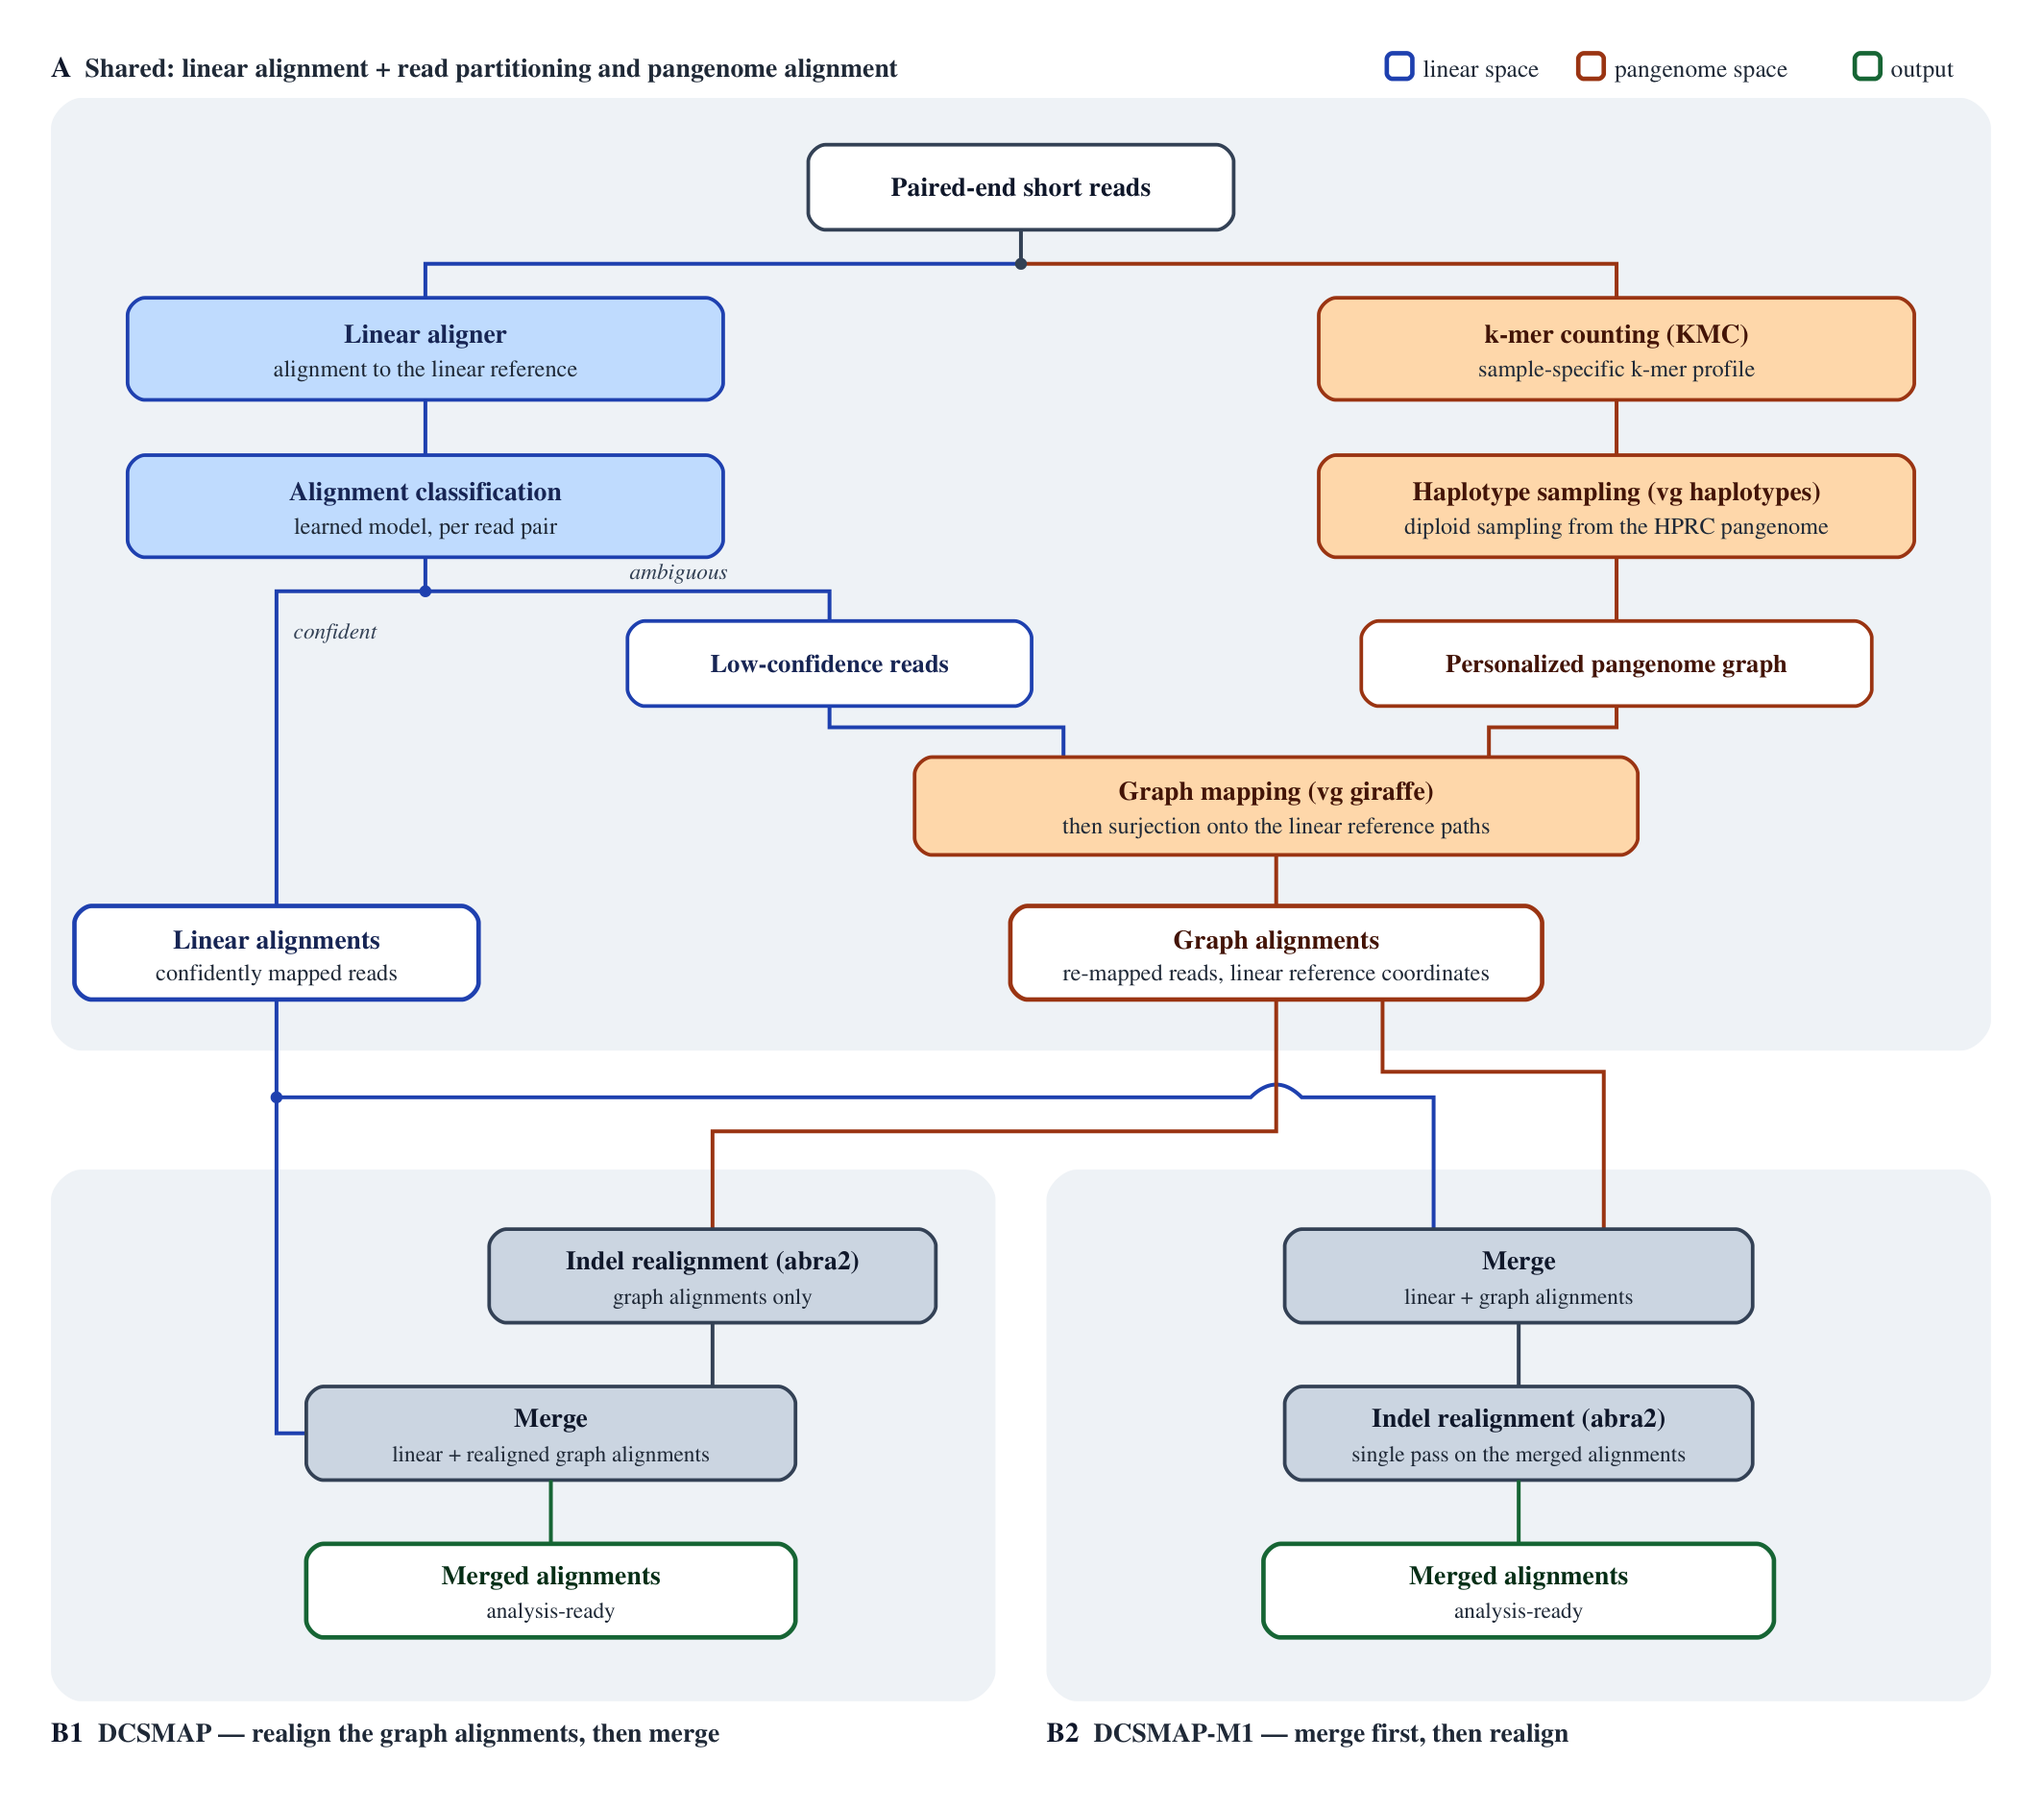
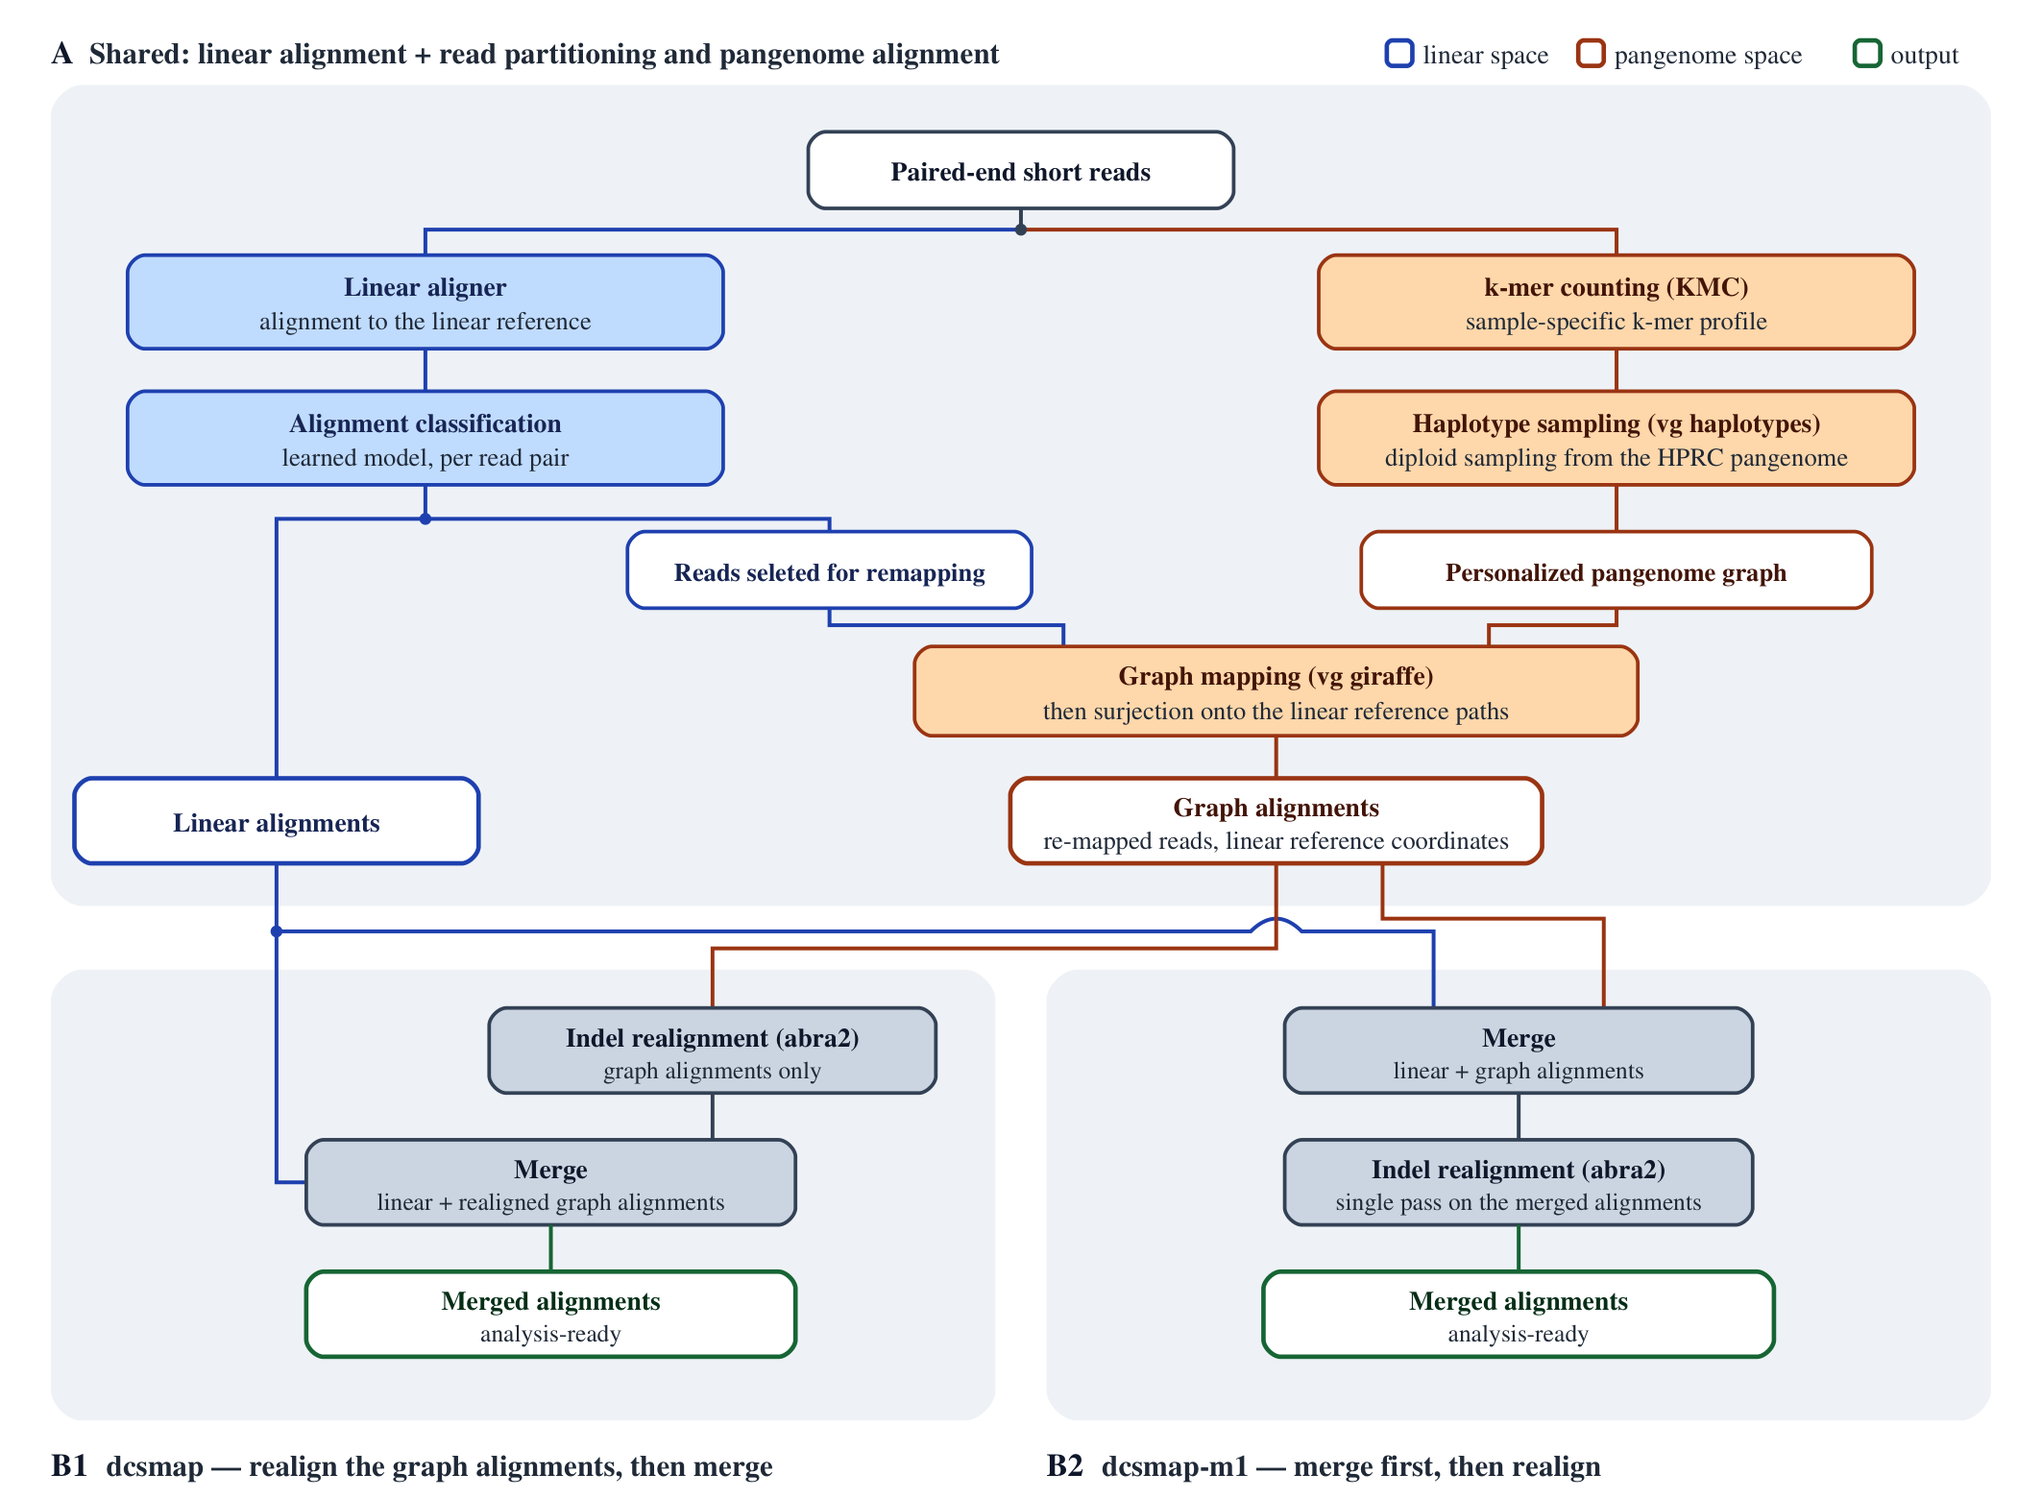
update

diff --git a/src/Scripts.cpp b/src/Scripts.cpp
@@ -43,7 +43,7 @@ extract_prefix="${sample}.linear.extract"
 out_bam="${sample}.linear.not-extract.bam"
 
 echo "[INFO] $(date '+%Y-%m-%d %H:%M:%S') Start linear align (bwa-mem2) mapping and extract ..."
-/usr/bin/time -f "[linear-align/bwa-mem2] real %e\tuser %U\tsys %S\tcpu_percentage %P\tmaxrss %M" \
+timed "linear-align/bwa-mem2" \
     bwa-mem2 mem -S -r 3 -y 0 -Y -t {{THREADS}} -R "$read_group" "$in_ref" "{{FQ1}}" "{{FQ2}}" | \
     "${AWK}" '/^@/ {print;next} {print $0"\tMX:Z:BWA-MEM2"}' | \
     extract-bam -b 4000000 -t 12 -p "$extract_prefix" -M "{{EXTRACT_MODEL}}" | \
@@ -90,7 +90,7 @@ echo "${input_fq1}" > "${kmc_outdir}/kmc_input_list.txt"
 echo "${input_fq2}" >> "${kmc_outdir}/kmc_input_list.txt"
 
 echo "[INFO] $(date '+%Y-%m-%d %H:%M:%S') Start kmer counting ..."
-/usr/bin/time -f "[kmc] real %e\tuser %U\tsys %S\tcpu_percentage %P\tmaxrss %M" \
+timed "kmc" \
     kmc -k${kmer_len} -t${threads} -m${kmc_max_ram} -okff @"${kmc_outdir}/kmc_input_list.txt" "${kmc_outdir}/${kmc_output_prefix}" "${kmc_outdir}/kmc_tmp"
 rm -rf "${kmc_outdir}/kmc_tmp" "${kmc_outdir}/kmc_input_list.txt"
 echo "[INFO] $(date '+%Y-%m-%d %H:%M:%S') End kmer counting."
@@ -105,7 +105,7 @@ mkdir -p "${haplotype_sampling_outdir}"
 unset OMP_NUM_THREADS
 
 echo "[INFO] $(date '+%Y-%m-%d %H:%M:%S') Start haplotype sampling ..."
-/usr/bin/time -f "[vg-haplotypes] real %e\tuser %U\tsys %S\tcpu_percentage %P\tmaxrss %M" \
+timed "vg-haplotypes" \
     vg haplotypes -v 2 -t ${threads} \
         --num-haplotypes ${haplotype_number} \
         --present-discount ${present_discount} \
@@ -120,11 +120,11 @@ echo "[INFO] $(date '+%Y-%m-%d %H:%M:%S') Start haplotype sampling ..."
 echo "[INFO] $(date '+%Y-%m-%d %H:%M:%S') End haplotype sampling."
 
 echo "[INFO] $(date '+%Y-%m-%d %H:%M:%S') Start creating indexes ..."
-/usr/bin/time -f "[vg-index] real %e\tuser %U\tsys %S\tcpu_percentage %P\tmaxrss %M" \
+timed "vg-index" \
     vg index -t ${threads} -j ${haplotype_sampling_outdir}/haplotype_sampling.dist ${haplotype_sampling_outdir}/haplotype_sampling.gbz
 in_minimizer_k=29
 in_minimizer_w=11
-/usr/bin/time -f "[vg-minimizer] real %e\tuser %U\tsys %S\tcpu_percentage %P\tmaxrss %M" \
+timed "vg-minimizer" \
     vg minimizer -p -t ${threads} -k ${in_minimizer_k} -w ${in_minimizer_w} --weighted --save-memory \
         -o ${haplotype_sampling_outdir}/haplotype_sampling.min -z ${haplotype_sampling_outdir}/haplotype_sampling.zipcodes \
         -d ${haplotype_sampling_outdir}/haplotype_sampling.dist ${haplotype_sampling_outdir}/haplotype_sampling.gbz
@@ -174,7 +174,7 @@ in_preset="default"
 output_surject_bam="${giraffe_outdir}/${in_sample_name}.project_to_linear.bam"
 
 echo "[INFO] $(date '+%Y-%m-%d %H:%M:%S') Start vg giraffe mapping ..."
-/usr/bin/time -f "[vg-giraffe] real %e\tuser %U\tsys %S\tcpu_percentage %P\tmaxrss %M" \
+timed "vg-giraffe" \
     vg giraffe \
         --progress \
         --read-group "${read_group}" \
@@ -228,7 +228,7 @@ out_bam="{{OUT_BAM}}"
 out_bai="${out_bam}.bai"
 
 echo "[INFO] $(date '+%Y-%m-%d %H:%M:%S') Start merge bams ..."
-/usr/bin/time -f "[samtools-merge] real %e\tuser %U\tsys %S\tcpu_percentage %P\tmaxrss %M" \
+timed "samtools-merge" \
     samtools merge \
         -f -p -c -@ {{THREADS}} --write-index -OBAM \
         -o "${out_bam}"##idx##"${out_bai}" \
@@ -300,7 +300,7 @@ threads={{THREADS}}
 realign_targets_bed="{{TARGETS_BED}}"
 
 echo "[INFO] $(date '+%Y-%m-%d %H:%M:%S') Start prepare realign targets ..."
-/usr/bin/time -f "[gatk-RealignerTargetCreator] real %e\tuser %U\tsys %S\tcpu_percentage %P\tmaxrss %M" \
+timed "gatk-RealignerTargetCreator" \
     java -Xms24g -Xmx64g -XX:+UseG1GC -jar ${gatk_jar} \
         -T RealignerTargetCreator \
         -drf DuplicateRead \
@@ -314,7 +314,7 @@ echo "[INFO] $(date '+%Y-%m-%d %H:%M:%S') End prepare realign targets."
 
 realigned_bam="{{REALIGNED_BAM}}"
 echo "[INFO] $(date '+%Y-%m-%d %H:%M:%S') Start abra2 indel realignment ..."
-/usr/bin/time -f "[abra2] real %e\tuser %U\tsys %S\tcpu_percentage %P\tmaxrss %M" \
+timed "abra2" \
     java -Xms24g -Xmx80g -XX:+UseG1GC -jar ${abra2_jar} \
         --targets ${realign_targets_bed} \
         --in ${input_bam} \

diff --git a/src/Task.cpp b/src/Task.cpp
@@ -120,7 +120,27 @@ void Task::run() {
         "    echo \"[ERROR] neither mawk nor awk found in PATH\" >&2\n"
         "    exit 1\n"
         "fi\n"
-        "export AWK\n";
+        "export AWK\n"
+        "# resolve a GNU-compatible timer: it must exist *and* accept -f, since\n"
+        "# /usr/bin/time may be absent (slim images) or a BSD/busybox variant\n"
+        "TIME_CMD=\"\"\n"
+        "for _t in /usr/bin/time \"$(command -v gtime || true)\" \"$(command -v time || true)\"; do\n"
+        "    [ -n \"${_t}\" ] && [ -x \"${_t}\" ] || continue\n"
+        "    if \"${_t}\" -f \"%e\" true >/dev/null 2>&1; then TIME_CMD=\"${_t}\"; break; fi\n"
+        "done\n"
+        "unset _t\n"
+        "if [ -z \"${TIME_CMD}\" ]; then\n"
+        "    echo \"[WARN] no GNU-compatible 'time' found; running without resource timing\" >&2\n"
+        "fi\n"
+        "# run a command under the timer, or unmeasured when no timer is available\n"
+        "timed() {\n"
+        "    local _label=\"$1\"; shift\n"
+        "    if [ -n \"${TIME_CMD}\" ]; then\n"
+        "        \"${TIME_CMD}\" -f \"[${_label}] real %e\\tuser %U\\tsys %S\\tcpu_percentage %P\\tmaxrss %M\" \"$@\"\n"
+        "    else\n"
+        "        \"$@\"\n"
+        "    fi\n"
+        "}\n";
     std::string full_script;
     if (script_.rfind(marker, 0) == 0) {
         full_script = preamble + script_.substr(marker.size());

diff --git a/src/main.cpp b/src/main.cpp
@@ -19,7 +19,10 @@
 #ifndef DCSMAP_VERSION
 #define DCSMAP_VERSION "unknown"
 #endif
-static const char* kVersion = DCSMAP_VERSION;
+#ifndef DCSMAP_GIT_COMMIT
+#define DCSMAP_GIT_COMMIT "unknown"
+#endif
+static const char* kVersion = DCSMAP_VERSION "-" DCSMAP_GIT_COMMIT;
 
 namespace {
 
@@ -419,7 +422,7 @@ int orchestrate(Config& c, const Args& a) {
         // realign (intermediate) on giraffe bam -> abra2 bam in job dir
         std::vector<std::string> ra_out;
         Task ra("realign", c.work_root,
-                buildRealign(c, giraffe_bam, giraffe_bai, "giraffe", "", ra_out), ra_out);
+                buildRealign(c, giraffe_bam, giraffe_bai, "abra2", "", ra_out), ra_out);
         if (!runSync(ra)) return 1;
         std::string abra2_bam = ra_out[0];
         std::string abra2_bai = ra_out[1];
@@ -441,7 +444,7 @@ int orchestrate(Config& c, const Args& a) {
         // realign (FINAL) on merged bam -> out-bam
         std::vector<std::string> ra_out;
         Task ra("realign", c.work_root,
-                buildRealign(c, merged_bam, merged_bai, "merged_realign", final_bam, ra_out), ra_out);
+                buildRealign(c, merged_bam, merged_bai, "abra2", final_bam, ra_out), ra_out);
         if (!runSync(ra)) return 1;
     }
 

diff --git a/src/Scripts.h b/src/Scripts.h
@@ -71,7 +71,7 @@ std::string buildMergeBams(const Config& c,
 
 // REALIGN: GATK RealignerTargetCreator + abra2 (always --gkl).
 // `out_subdir` is the relative subdir under the job dir where abra2 writes
-// (e.g. "giraffe" for dcsmap intermediate, "merged_realign" for dcsmap-m1 final).
+// (e.g. "abra2").
 // `final_out_bam` is empty for the intermediate case; when non-empty the abra2
 // bam is written directly to that absolute path (and out_subdir is ignored for
 // placement).
